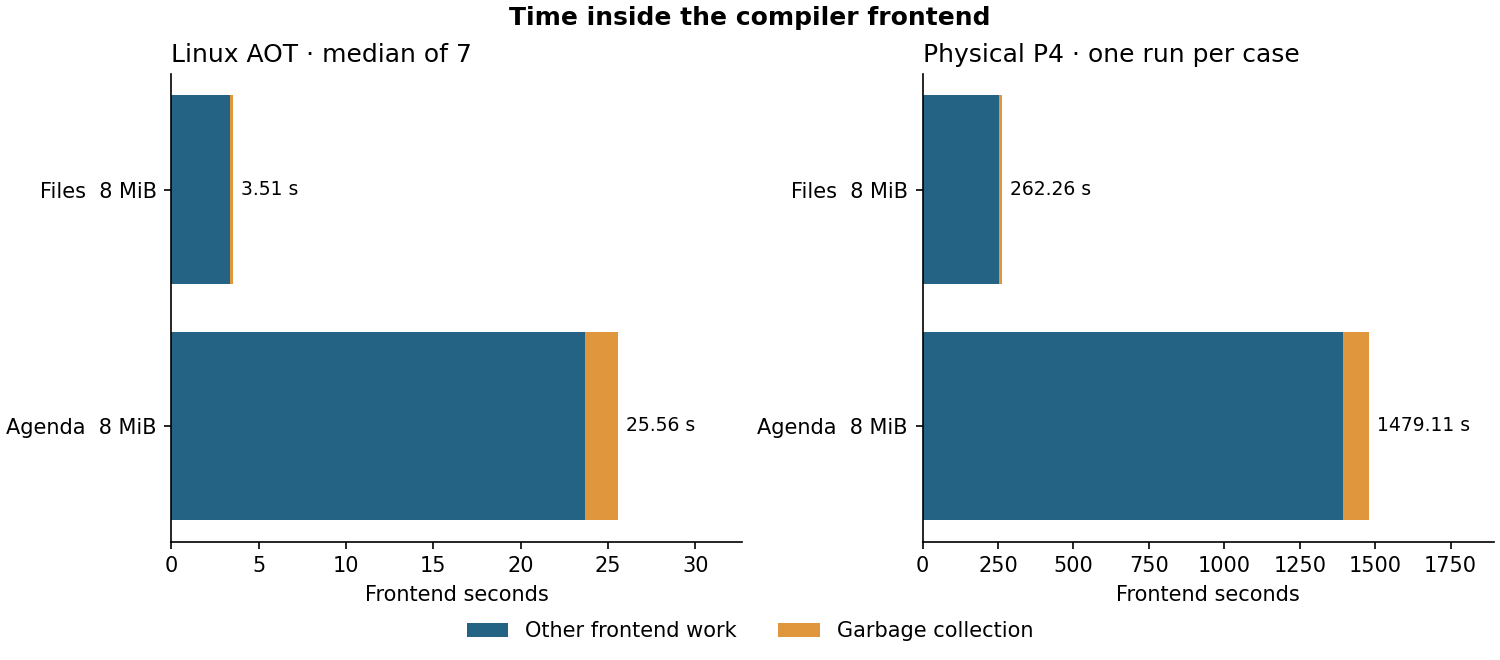
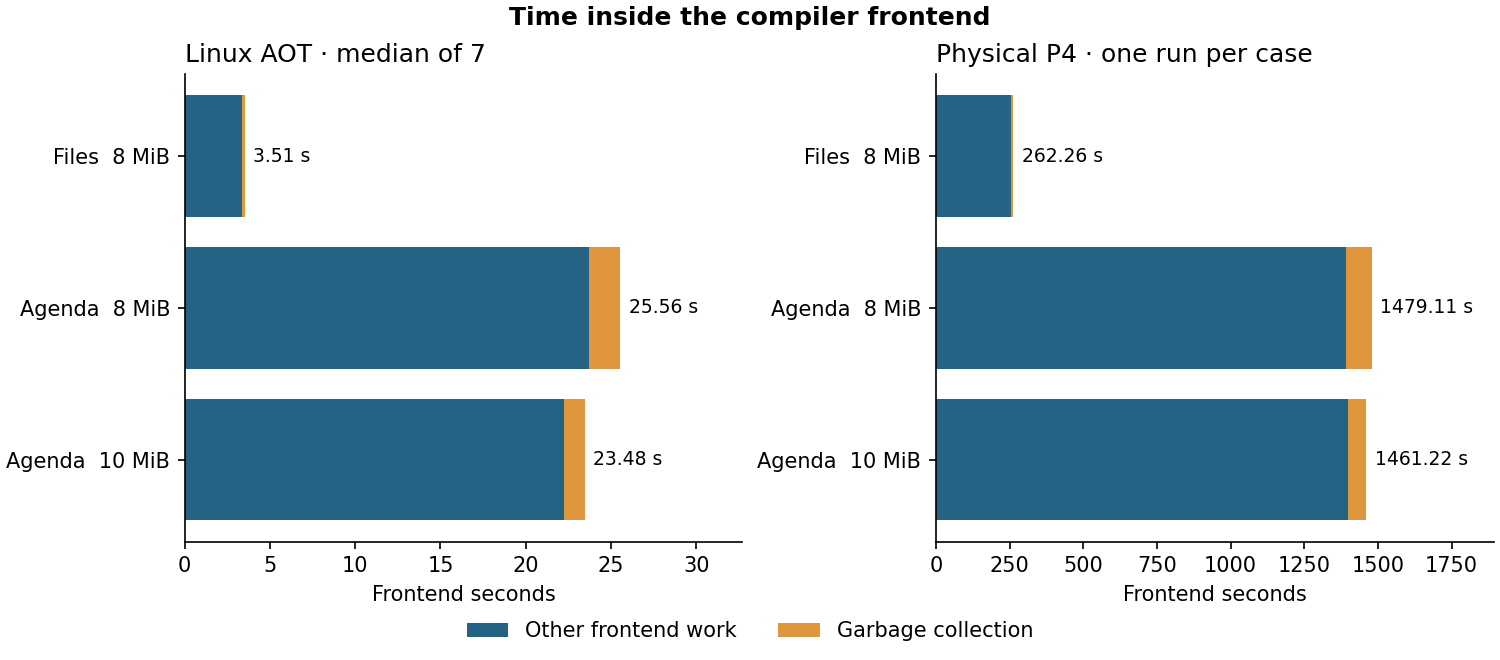
Record physical heap A/B and CRC-verified PicoCalc launcher capture

diff --git a/ttmp/2026/11/18/PICOCALC-CJI-PERF--benchmark-cji-across-linux-rv32-emulation-and-the-picocalc/reference/01-investigation-diary.md b/ttmp/2026/11/18/PICOCALC-CJI-PERF--benchmark-cji-across-linux-rv32-emulation-and-the-picocalc/reference/01-investigation-diary.md
@@ -517,3 +517,49 @@ Compare the two per-world reuse JSON files in various/linux-profiles and inspect
 ### Technical details
 
 Agenda's peak tracked memo text was 1,530,495 UTF-16 units. Files peaked at 429,257. The two source digests and SLIR digests remain the previously qualified values.
+
+## Step 12 — Close the physical A/B and verify the real display
+
+### Prompt Context
+
+Continuing the request for physical screenshots, a cross-target report and a traceable heap experiment.
+
+### What I did
+
+Validated the second Agenda module, checked all phase transitions and PSRAM snapshots, and rerendered the time and heartbeat figures from the three completed physical jobs. The experiment reset the board. In a separate demonstration I captured three physical frames around a successful Keyboard compilation and inspected the decoded pixels.
+
+### Why
+
+A picture obtained during the timed compile would perturb the serial traffic. Separating the framebuffer demonstration makes the timing comparison and image provenance clear.
+
+### What worked
+
+The candidate finished in 1,462.449 seconds with the expected module. Using 10 MiB saved 17.891 seconds end to end, reduced collector time by 23.848 seconds and increased peak scratch by exactly 2 MiB. All three 320 × 320 physical captures passed CRC verification and showed the same launcher. Retained one copy. The bus hold was released by the normal reset.
+
+### What didn't work
+
+After reset the keyboard bus reported 390 failures in 390 transfers. The shortcut to Logs did not change the launcher. All frame CRCs were 3ed26c5b. The report uses serial receipts for progress and the picture for the physical display.
+
+### What I learned
+
+More heap can materially reduce collector activity while producing a small net latency change. Time outside collection rose by about six seconds in this pair. The result does not support a production default change.
+
+### What was tricky to build
+
+A normal reset re-enables keyboard transfers but cannot establish that the separate keyboard controller responds. The post-reset counters document that distinction. Avoid retaining the full unfiltered console transcript in Git.
+
+### What warrants a second pair of eyes
+
+Both P4 samples used the same firmware and held-bus condition. There is one run per heap size. A reverse-order repeat is appropriate before drawing conclusions about a difference near one percent.
+
+### What should be done in the future
+
+Use a whole-device power cycle to restore the keyboard controller, then verify normal bus transfers before a UI latency benchmark. The host memo candidate and larger guest profiles continue separately.
+
+### Code review instructions
+
+Check various/p4/comparison.json against p4-runs.jsonl. Compare the launcher image hash with display-capture.json. The figure source and physical resource capture scripts are in scripts/figures. Previous inference-cache checkpoint ec58483.
+
+### Technical details
+
+The 10 MiB P4 job reported 297 collections, 995,195,416 survivor bytes and 172,771,688 slide bytes. Frontend time was 1,461,217,032 microseconds. The board SHA-256 for Agenda matches its 8 MiB build and the independent host ELF.

diff --git a/ttmp/2026/11/18/PICOCALC-CJI-PERF--benchmark-cji-across-linux-rv32-emulation-and-the-picocalc/analysis/01-performance-evidence-and-optimization-plan-for-the-picocalc-compiler.md b/ttmp/2026/11/18/PICOCALC-CJI-PERF--benchmark-cji-across-linux-rv32-emulation-and-the-picocalc/analysis/01-performance-evidence-and-optimization-plan-for-the-picocalc-compiler.md
@@ -25,6 +25,10 @@ Agenda spends almost its entire physical compile inside stage 1. With an 8 MiB h
 
 **Linux simulator framebuffer.** This is the application whose bundled source we compile. Its launch screen verifies what the workload represents. The compiler benchmark ends after hashing the generated module. It excludes world startup, drawing and typing latency.
 
+![Actual post-benchmark ESP32-P4 launcher framebuffer decoded from the serial screenshot command.](../various/figures/p4-launcher.png)
+
+**Physical PicoCalc framebuffer.** This 320 × 320 capture is shown at 2× nearest-neighbor scale. After the separate demonstration compile, the framebuffer command returned the same CRC as before it. The launcher reports 27 of 28 worlds running and five crashes since boot. After the benchmark reset, the keyboard bus recorded 390 errors in 390 transfers; the attempted Logs shortcut did not change the screen. The figure shows the available launcher state. Compiler liveness during the timed runs comes from the serial progress traces. [Capture record](../various/p4/display-capture.json).
+
 ## Which work crosses platforms
 
 ![The compiler input forks into native host, guest emulator and physical board paths.](../various/figures/compiler-paths.png)
@@ -53,6 +57,10 @@ On this matrix the P4 frontend took approximately 75 times as long as Linux for 
 ![Cumulative allocator call count from physical frontend heartbeat records.](../various/figures/frontend-heartbeats.png)
 
 **Reading a slow run.** Each point is an observed frontend heartbeat. The same job can allocate, reuse and free temporary buffers throughout stage 1. A rising call count confirms activity. An interval with a flat count may still be running generated code. A terminal full-digest receipt establishes completion. Comparing the final link and assemble timestamps shows that improving them has very little leverage on Agenda's present wall time.
+
+### What the larger heap bought on the board
+
+The matched 10 MiB run returned the same Agenda ELF. GC fell from 85.898 to 62.050 s, but total frontend time fell from 1,479.109 to 1,461.217 s. Time outside measured collections increased by 5.956 s. The full job improved 1.21% at a cost of exactly 2 MiB additional peak scratch. One pair in a fixed order establishes the observed result and its memory cost. It cannot resolve device run-to-run variation. Keep 8 MiB as the default and prioritize range-analysis work for a larger latency improvement. [Physical receipts and memory samples](../various/p4/comparison.json).
 
 ## Memory ownership on the device
 

diff --git a/ttmp/2026/11/18/PICOCALC-CJI-PERF--benchmark-cji-across-linux-rv32-emulation-and-the-picocalc/design-doc/01-profiling-cji-from-the-linux-host-to-the-picocalc.md b/ttmp/2026/11/18/PICOCALC-CJI-PERF--benchmark-cji-across-linux-rv32-emulation-and-the-picocalc/design-doc/01-profiling-cji-from-the-linux-host-to-the-picocalc.md
@@ -350,3 +350,18 @@ The guest harness count rose by 1,377,250 instructions with instrumentation (0.0
 A second Linux matrix reused the exact same two executables, source bytes and output references. It ran after Callgrind exited, pinned to logical CPU 1 with its sibling free of our benchmark processes. Other emulators continued on separate physical cores. Each cell again has seven measured samples following one warm-up. Process wall-time medians were 2.364 s plain and 2.317 s instrumented for Files, 17.897 s and 16.757 s for Agenda at 8 MiB, and 17.398 s and 16.390 s for Agenda at 10 MiB.
 
 The direction of the plain-versus-instrumented timing difference reversed between the two matrices. The ELF identity and work counters stayed fixed. Consequently the Linux timings do not isolate a reliable overhead percentage. The RV32 guest gives a deterministic estimate in instructions for Files. Doubling down on host wall-clock precision would do little to answer the physical heap question. The [second host matrix](../various/linux-repeat-summary.json) and [individual receipts](../various/linux-repeat-samples.jsonl) preserve both sample counts and spread.
+
+### Physical Agenda heap experiment
+
+Both jobs used firmware 154cd68c, the same source and prelude, identical early reservation policy and the held keyboard bus. Each ran once in the order 8 MiB then 10 MiB. Both returned the expected 301,496-byte module.
+
+| Agenda | 8 MiB | 10 MiB | Change |
+|---|---:|---:|---:|
+| Frontend | 1,479.109 s | 1,461.217 s | −17.892 s |
+| Collector | 85.898 s | 62.050 s | −23.848 s |
+| Frontend outside GC | 1,393.211 s | 1,399.167 s | +5.956 s |
+| Full compile check | 1,480.340 s | 1,462.449 s | −17.891 s |
+| Collections | 424 | 297 | −127 |
+| Peak job scratch | 10,048,551 B | 12,145,703 B | +2,097,152 B |
+
+The larger heap reduced collector time by 27.8% and whole-job time by 1.21% in this pair. Increasing the default would consume two additional MiB for the duration of a job. Keep 8 MiB for normal Agenda builds based on the current evidence. Replay the pair in reverse order before attributing small overall differences to the heap configuration. The [raw progress logs and validated comparison](../various/p4) include free and largest PSRAM samples before and after each job.

diff --git a/ttmp/2026/11/18/PICOCALC-CJI-PERF--benchmark-cji-across-linux-rv32-emulation-and-the-picocalc/tasks.md b/ttmp/2026/11/18/PICOCALC-CJI-PERF--benchmark-cji-across-linux-rv32-emulation-and-the-picocalc/tasks.md
@@ -4,5 +4,5 @@
 - [x] Capture native Linux Files and Agenda profiles and validated output hashes <!-- t:8bfa -->
 - [ ] Compare RV32 guest profiles to native hotspots <!-- t:lp8s -->
 - [x] Implement matched frontend and GC metrics and verify probe overhead <!-- t:2d36 -->
-- [ ] Measure the physical 8 MiB and 10 MiB experiment and interpret differences <!-- t:atkx -->
+- [x] Measure the physical 8 MiB and 10 MiB experiment and interpret differences <!-- t:atkx -->
 - [x] Benchmark generated-world dispatch with deterministic checksums <!-- t:1zdd -->
